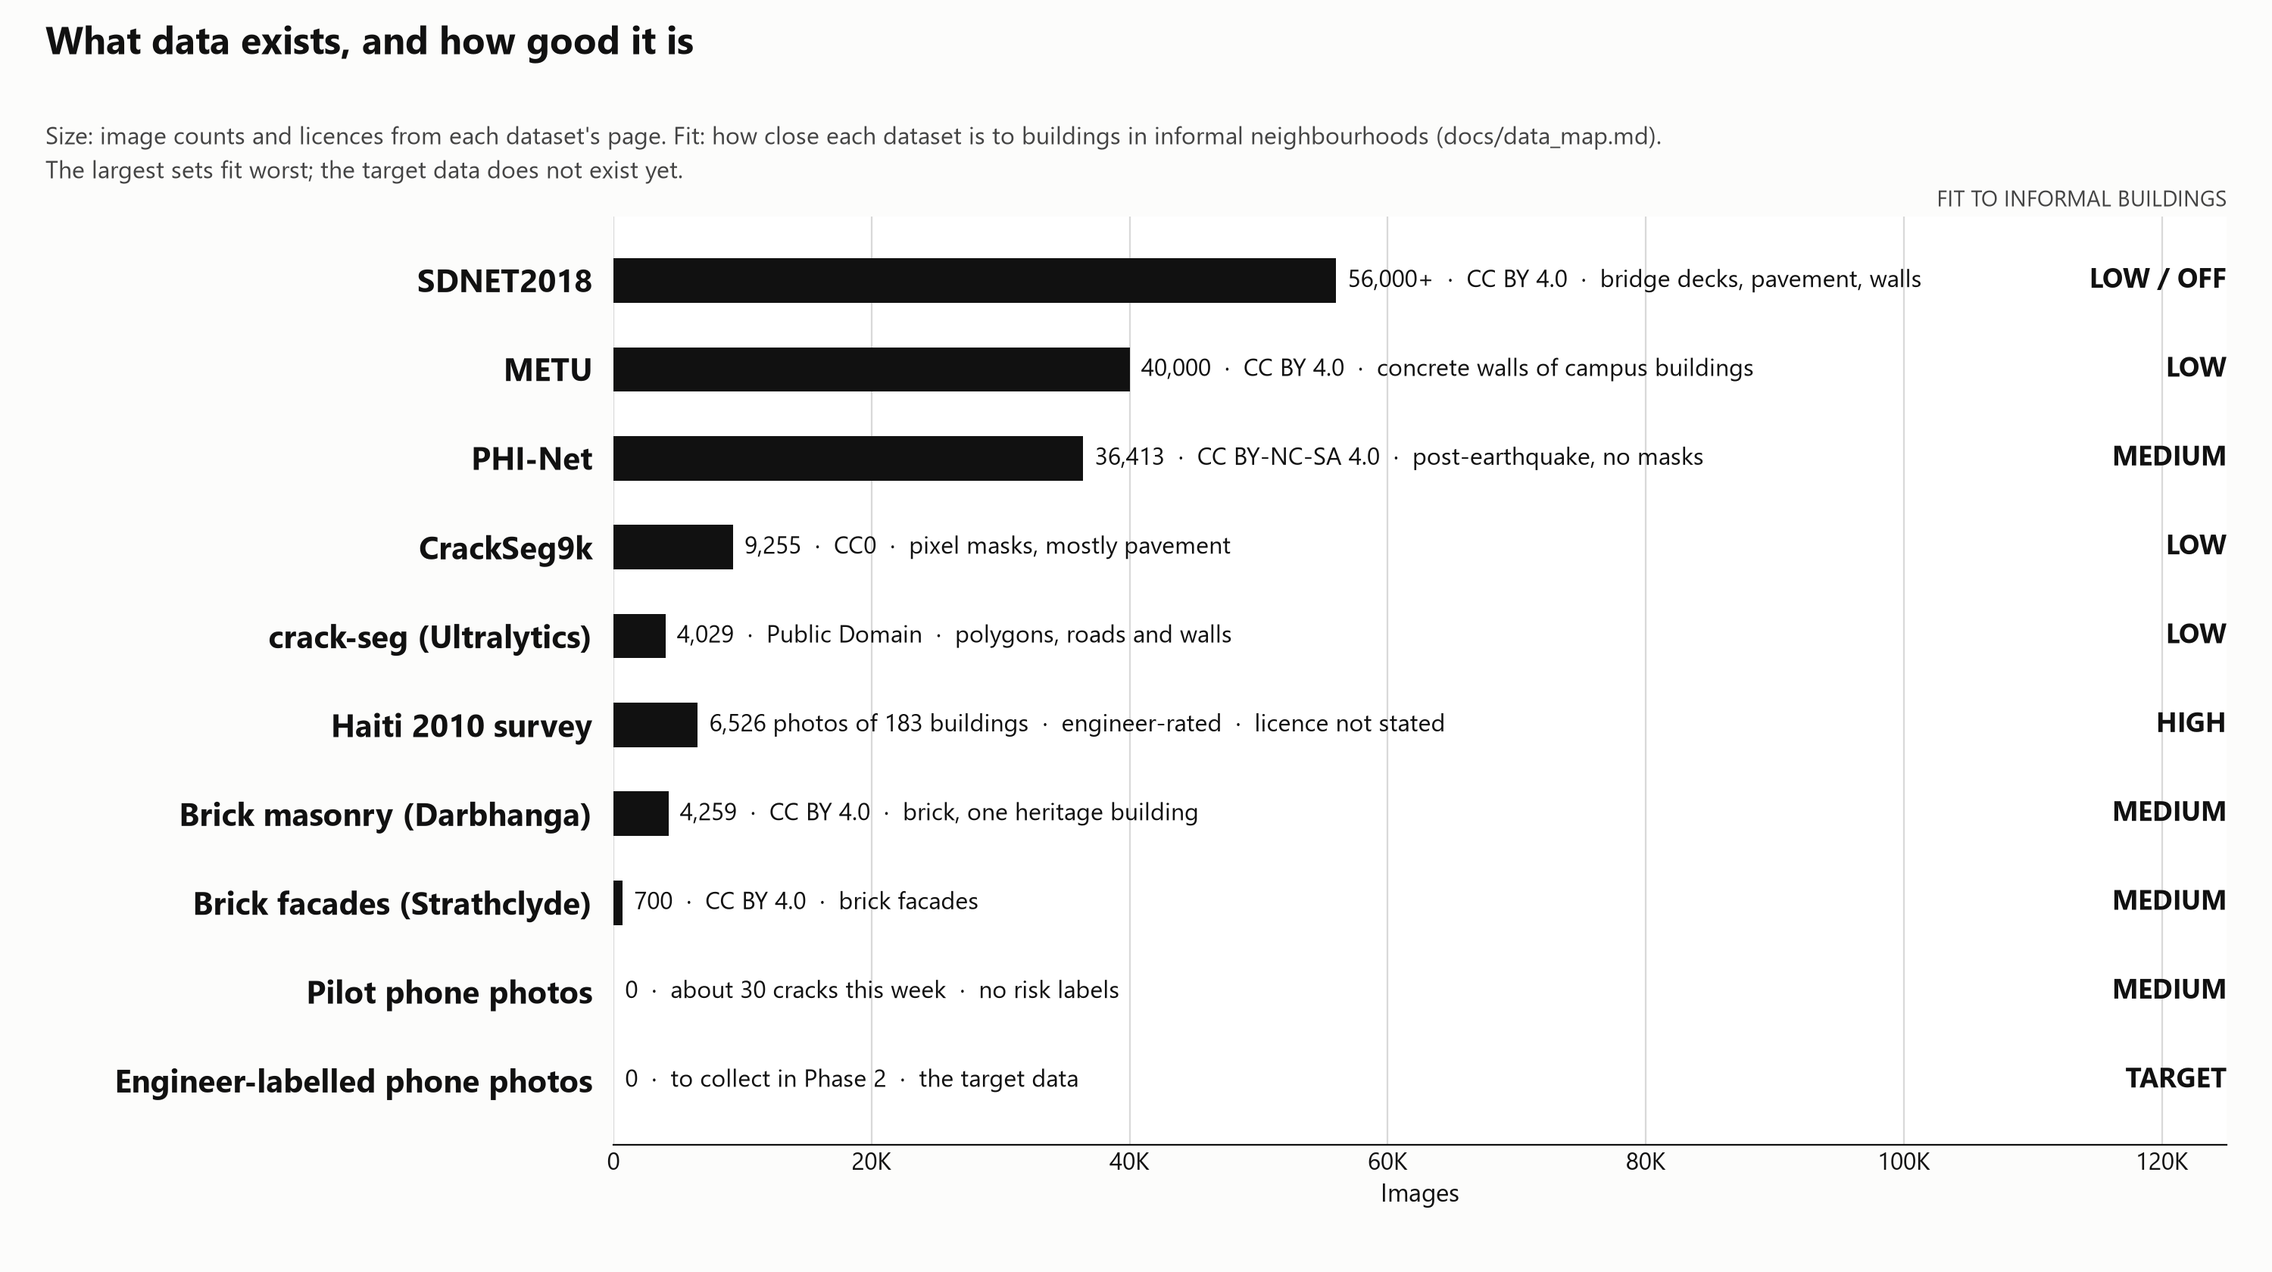
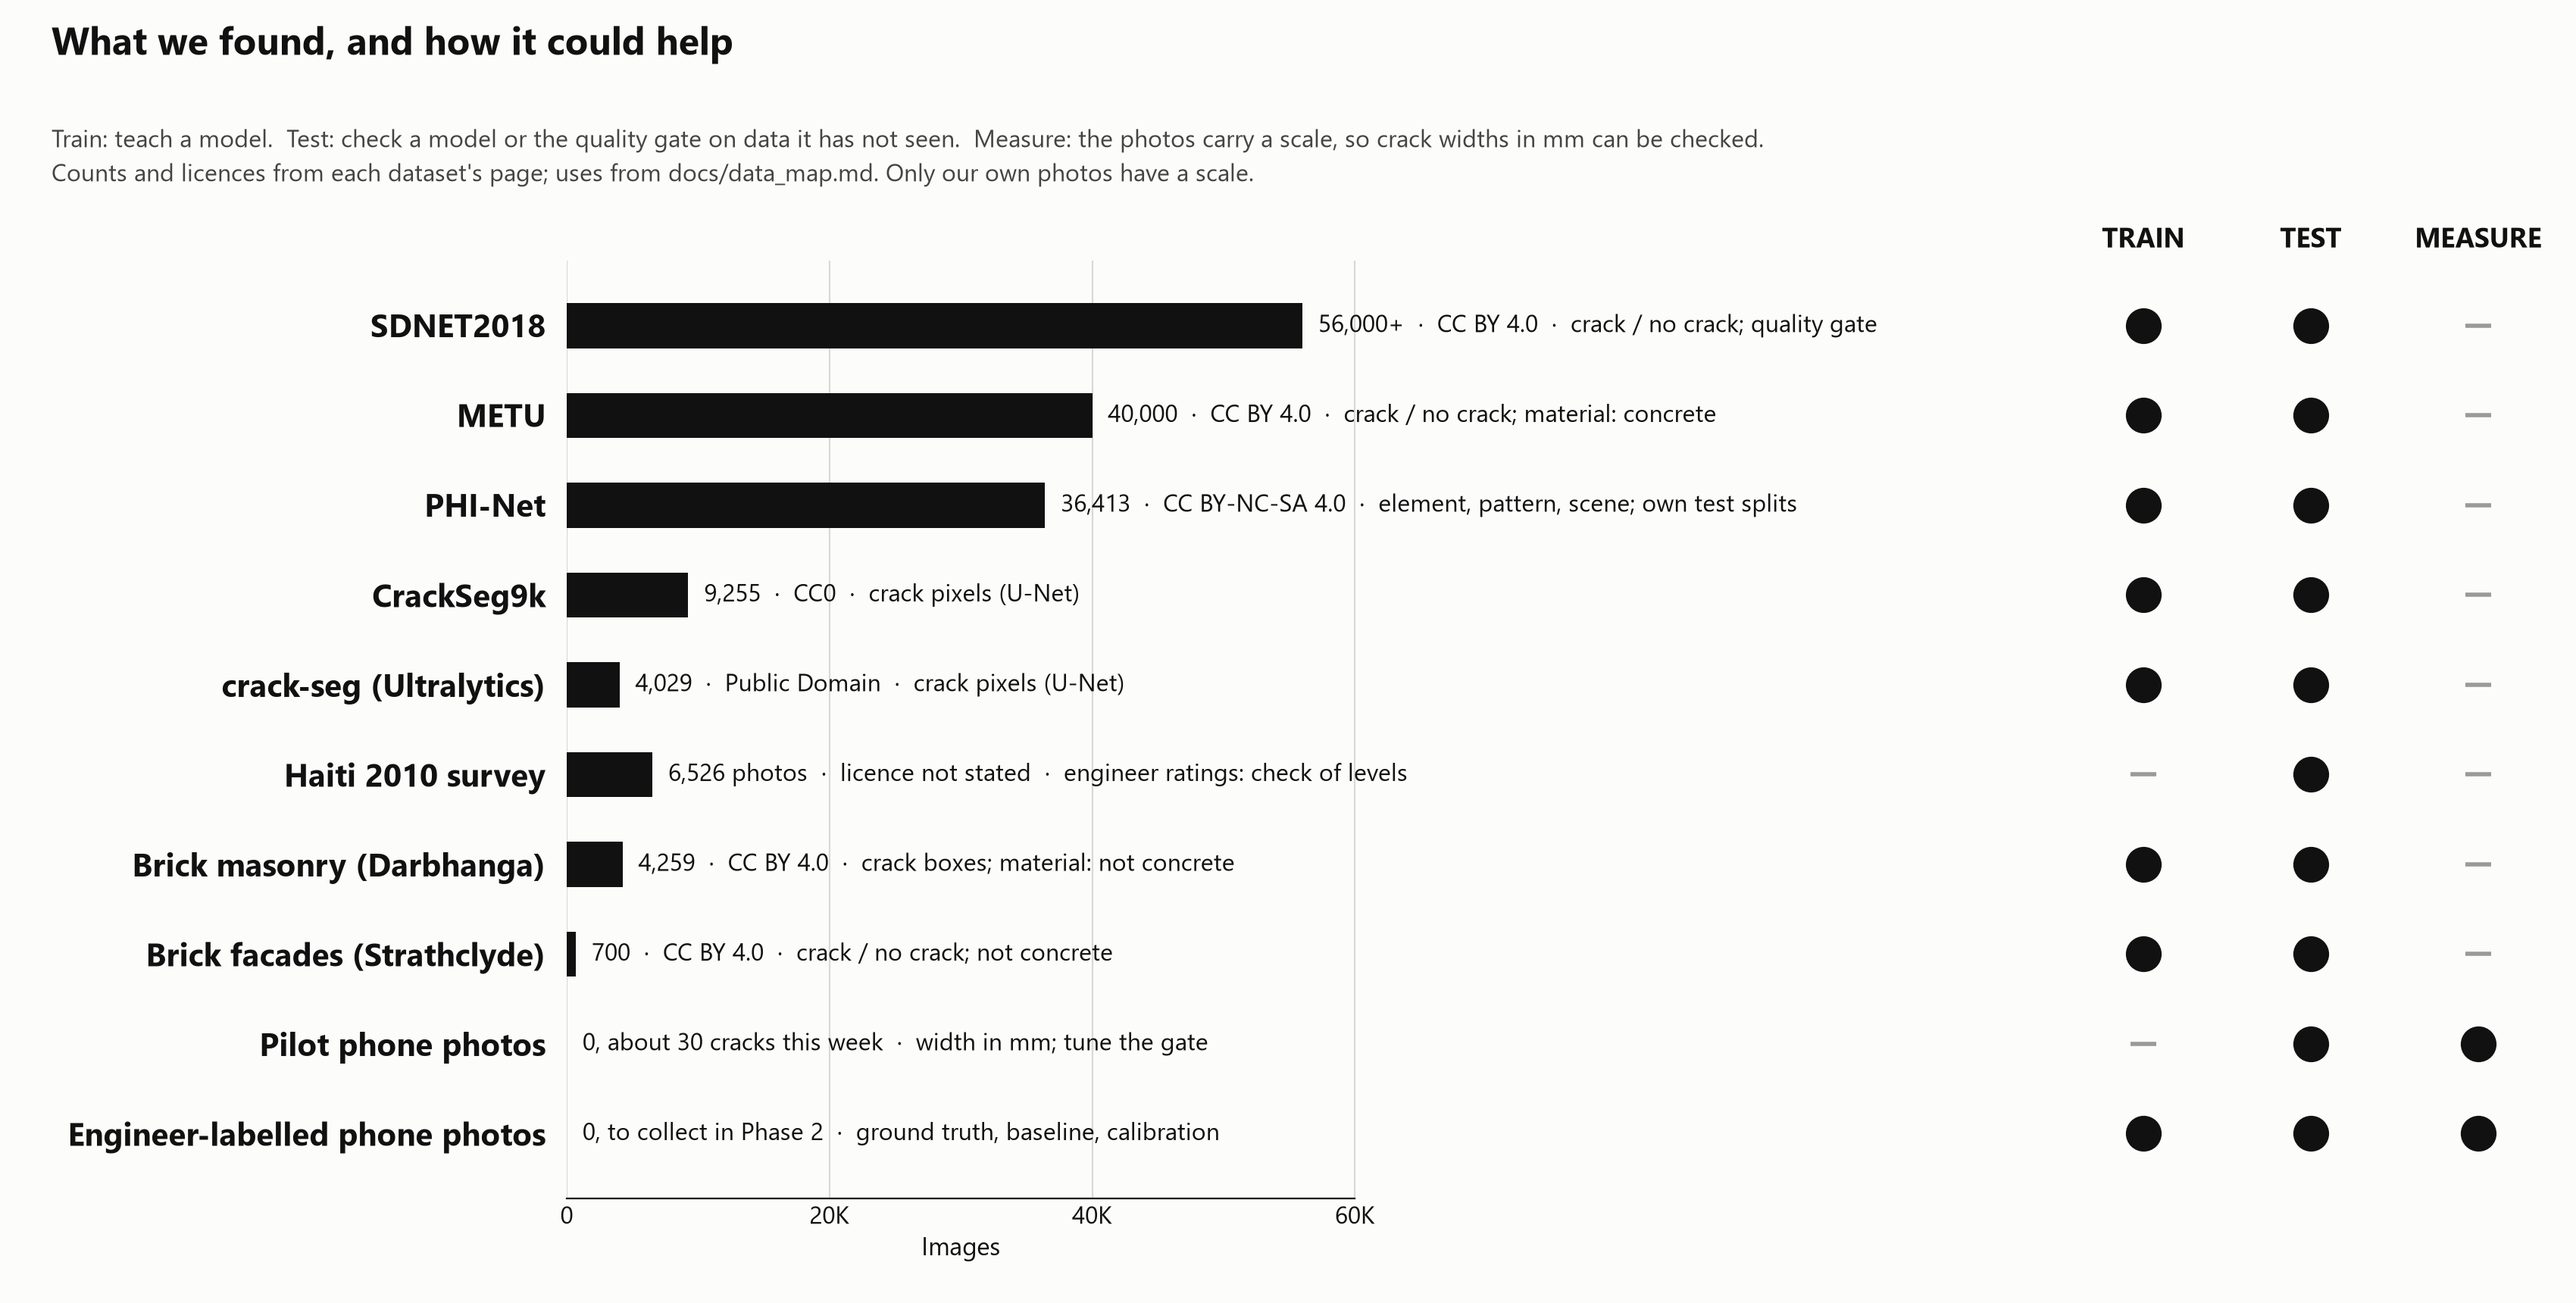
Dataset figure: 'What we found, and how it could help', with train / test / measure use per dataset instead of fit

diff --git a/src/viz/figures.py b/src/viz/figures.py
@@ -828,47 +828,42 @@ def data_coverage():
     return fig
 
 
-# From docs/data_map.md, section 2 (checked on the source pages, 24 Oct 2026).
-DATASETS = [("SDNET2018", 56_000, "56,000+  ·  CC BY 4.0  ·  bridge decks, pavement, walls"),
-            ("METU", 40_000, "40,000  ·  CC BY 4.0  ·  concrete walls of campus buildings"),
-            ("PHI-Net", 36_413, "36,413  ·  CC BY-NC-SA 4.0  ·  post-earthquake, no masks"),
-            ("CrackSeg9k", 9_255, "9,255  ·  CC0  ·  pixel masks, mostly pavement"),
-            ("crack-seg (Ultralytics)", 4_029, "4,029  ·  Public Domain  ·  polygons, roads and walls"),
-            ("Haiti 2010 survey", 6_526, "6,526 photos of 183 buildings  ·  engineer-rated  ·  licence not stated"),
-            ("Brick masonry (Darbhanga)", 4_259, "4,259  ·  CC BY 4.0  ·  brick, one heritage building"),
-            ("Brick facades (Strathclyde)", 700, "700  ·  CC BY 4.0  ·  brick facades"),
-            ("Pilot phone photos", 0, "0  ·  about 30 cracks this week  ·  no risk labels"),
-            ("Engineer-labelled phone photos", 0, "0  ·  to collect in Phase 2  ·  the target data")]
-
-
-# Fit to the concept, from docs/data_map.md section 0 (SDNET2018: walls low, decks and pavement off-concept).
-DATASET_FIT = {"SDNET2018": "LOW / OFF", "METU": "LOW", "PHI-Net": "MEDIUM", "CrackSeg9k": "LOW",
-               "crack-seg (Ultralytics)": "LOW", "Haiti 2010 survey": "HIGH", "Brick masonry (Darbhanga)": "MEDIUM",
-               "Brick facades (Strathclyde)": "MEDIUM", "Pilot phone photos": "MEDIUM",
-               "Engineer-labelled phone photos": "TARGET"}
+# From docs/data_map.md, sections 0b, 1, 2 and 6: (name, images, count and licence, train, test, measure, what for).
+# Train: teach a model. Test: check a model or the quality gate on data it has not seen. Measure: the photos carry a
+# scale, so crack widths in mm can be checked.
+DATASETS = [
+    ("SDNET2018", 56_000, "56,000+  ·  CC BY 4.0", True, True, False, "crack / no crack; quality gate"),
+    ("METU", 40_000, "40,000  ·  CC BY 4.0", True, True, False, "crack / no crack; material: concrete"),
+    ("PHI-Net", 36_413, "36,413  ·  CC BY-NC-SA 4.0", True, True, False, "element, pattern, scene; own test splits"),
+    ("CrackSeg9k", 9_255, "9,255  ·  CC0", True, True, False, "crack pixels (U-Net)"),
+    ("crack-seg (Ultralytics)", 4_029, "4,029  ·  Public Domain", True, True, False, "crack pixels (U-Net)"),
+    ("Haiti 2010 survey", 6_526, "6,526 photos  ·  licence not stated", False, True, False,
+     "engineer ratings: check of levels"),
+    ("Brick masonry (Darbhanga)", 4_259, "4,259  ·  CC BY 4.0", True, True, False, "crack boxes; material: not concrete"),
+    ("Brick facades (Strathclyde)", 700, "700  ·  CC BY 4.0", True, True, False, "crack / no crack; not concrete"),
+    ("Pilot phone photos", 0, "0, about 30 cracks this week", False, True, True, "width in mm; tune the gate"),
+    ("Engineer-labelled phone photos", 0, "0, to collect in Phase 2", True, True, True,
+     "ground truth, baseline, calibration"),
+]
 
 
 def dataset_sizes():
-    """Image counts of the public datasets and of our own data, in black and white."""
+    """What data exists and what each set can be used for (train, test, measure), in black and white."""
     K = "#111111"
-    fig, ax = plt.subplots(figsize=(15, 8.4), facecolor="white")
-    ax.set_facecolor("white")
+    fig, ax = plt.subplots(figsize=(17, 8.6))
     names = [d[0] for d in DATASETS]
     ys = range(len(DATASETS))
     ax.barh(ys, [d[1] for d in DATASETS], height=0.5, color=K)
-    for y, (_, n, label) in zip(ys, DATASETS):
-        ax.text(n + 900, y, label, va="center", fontsize=11.5, color=K)
-        ax.text(1.0, y, DATASET_FIT[names[y]], transform=ax.get_yaxis_transform(), va="center", ha="right",
-                fontsize=13, weight="bold", color=K)
-    ax.text(1.0, -0.9, "FIT TO INFORMAL BUILDINGS", transform=ax.get_yaxis_transform(), va="center", ha="right",
-            fontsize=10.5, color="#444444")
+    for y, (_, n, count, *_flags, what) in zip(ys, DATASETS):
+        ax.text(n + 1200, y, f"{count}  ·  {what}", va="center", fontsize=11.5, color=K)
     ax.set_yticks(list(ys), names)
     for tick in ax.get_yticklabels():
         tick.set_fontsize(15)
         tick.set_fontweight("bold")
         tick.set_color(K)
     ax.invert_yaxis()
-    ax.set_xlim(0, 125_000)
+    ax.set_xlim(0, 150_000)
+    ax.set_xticks([0, 20_000, 40_000, 60_000])
     ax.xaxis.set_major_formatter(matplotlib.ticker.FuncFormatter(lambda v, _: f"{v / 1000:.0f}K" if v else "0"))
     ax.tick_params(axis="x", colors=K, labelsize=11.5, length=0)
     ax.tick_params(axis="y", length=0, pad=10)
@@ -876,14 +871,26 @@ def dataset_sizes():
     ax.set_axisbelow(True)
     for s in ("top", "right", "left"):
         ax.spines[s].set_visible(False)
+    ax.spines["bottom"].set_bounds(0, 60_000)
     ax.spines["bottom"].set_color(K)
-    ax.set_xlabel("Images", fontsize=12, color=K)
-    fig.suptitle("What data exists, and how good it is",
-                 x=0.02, ha="left", fontsize=18, weight="bold", color=K)
-    fig.text(0.02, 0.905, "Size: image counts and licences from each dataset's page. Fit: how close each dataset is to "
-             "buildings in informal neighbourhoods (docs/data_map.md).\nThe largest sets fit worst; the target data does "
-             "not exist yet.", fontsize=11.5, color="#444444", va="top", linespacing=1.5)
-    fig.subplots_adjust(left=0.27, right=0.98, top=0.83, bottom=0.1)
+    ax.text(30_000, len(DATASETS) + 0.15, "Images", ha="center", va="top", fontsize=12, color=K)
+
+    # what each set can be used for: a filled dot means yes
+    trans = ax.get_yaxis_transform()
+    for k, head in enumerate(("TRAIN", "TEST", "MEASURE")):
+        x = 0.80 + k * 0.085
+        ax.text(x, -0.95, head, transform=trans, ha="center", va="center", fontsize=13, weight="bold", color=K)
+        for y, row in zip(ys, DATASETS):
+            used = row[3 + k]
+            ax.plot(x, y, transform=trans, marker="o" if used else "_", ms=15 if used else 12,
+                    color=K if used else "#9a9a9a", mew=2, clip_on=False)
+    fig.suptitle("What we found, and how it could help", x=0.02, ha="left", fontsize=18, weight="bold",
+                 color=K)
+    fig.text(0.02, 0.905, "Train: teach a model.  Test: check a model or the quality gate on data it has not seen.  "
+             "Measure: the photos carry a scale, so crack widths in mm can be checked.\nCounts and licences from each "
+             "dataset's page; uses from docs/data_map.md. Only our own photos have a scale.", fontsize=11.5,
+             color="#444444", va="top", linespacing=1.5)
+    fig.subplots_adjust(left=0.22, right=0.985, top=0.8, bottom=0.08)
     return fig
 
 

diff --git a/spec/features/figures.md b/spec/features/figures.md
@@ -12,7 +12,7 @@ Every figure is drawn from the repo's own rules and data map, so it changes when
 | `03_risk_matrix.png` | Matrix v3 in black, white and grey: each crack pattern as a drawn symbol with one word (key below), base category per pattern x width band (Category 1 white, 2 grey, 3 black), and what raises it, in words, with new and assumed values tagged | `src/triage/risk_matrix_v3.json` (read at run time) |
 | `04_segmentation_tree.png` | Tree v3: crack path (yellow) into the atomic problem, building path (navy) into the building risk score, context (grey); scale badge and evidence under each node | `docs/segmentation_tree.md` |
 | `05_data_coverage.png` | Which data source feeds which pipeline stage, by scale | `docs/data_map.md`, section 1 |
-| `06_dataset_sizes.png` | What data exists, and how good it is: image counts and licences of the public sets and of our own data, with each one's fit to buildings in informal neighbourhoods; black and white | `docs/data_map.md`, sections 0 and 2 |
+| `06_dataset_sizes.png` | What we found, and how it could help: image counts and licences of every dataset and of our own data, and what each can be used for: train a model, test a model or the quality gate, measure crack widths in mm (only photos with a scale); black and white | `docs/data_map.md`, sections 0b, 1, 2 and 6 |
 | `07_confusion_template.png` | TP / FN / FP / TN and the full 3 x 5 confusion matrix, no counts | `spec/features/evaluation.md` |
 | `08_real_data_quality_gate.png` | Sharpness of public dataset images against the blur limit (made by `src/experiments/real_data_quality.py`, not by this script) | Haiti 2010, Darbhanga, Strathclyde, PHI-Net tasks 8, 3 and 6, METU, SDNET2018, crack-seg; panels ordered by fit to the concept |
 | `09_timeline.png` | Plan to the final presentation (17 Dec) with syllabus milestones and tasks at risk | `spec/constitution/roadmap.md` |
